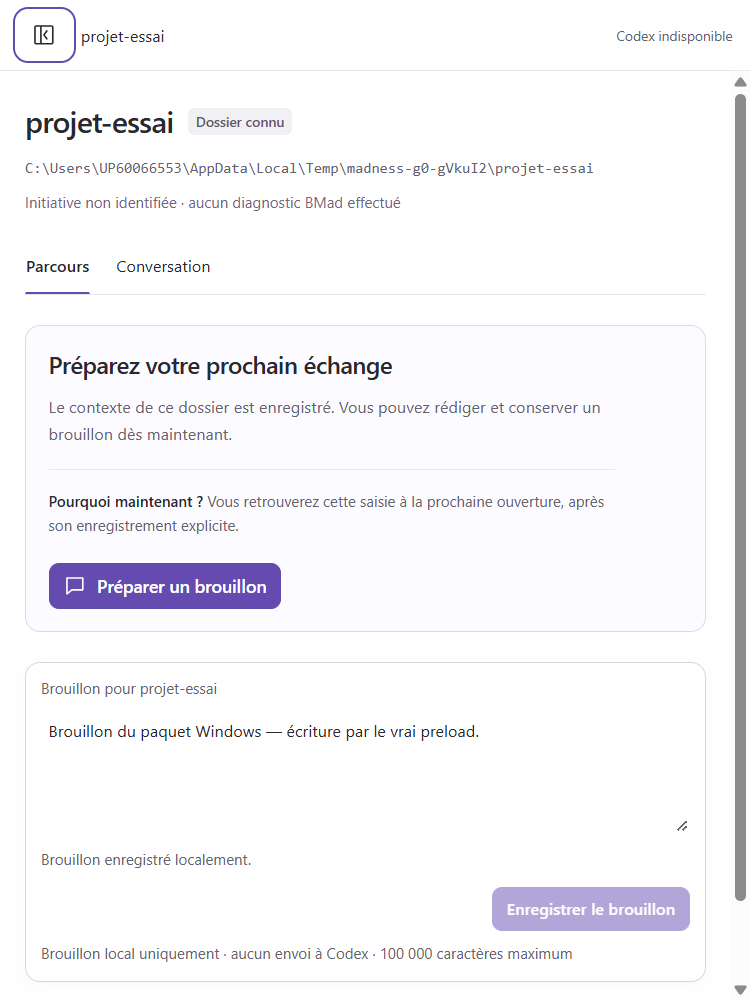
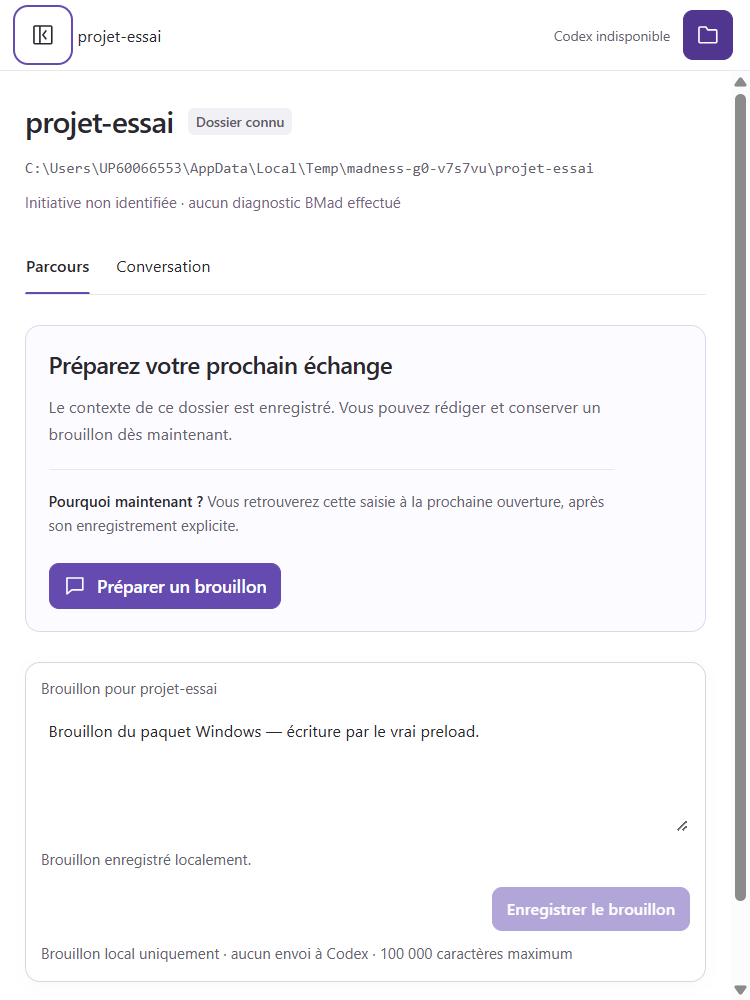
fix: regrouper la navigation et l'ouverture dans la barre superieure

Changed region(s): [[0.736, 0.0, 0.9813, 0.062], [0.0307, 0.0, 0.2147, 0.062], [0.5827, 0.155, 0.644, 0.186]]

diff --git a/src/renderer/src/App.tsx b/src/renderer/src/App.tsx
@@ -66,6 +66,7 @@ export function App(): ReactNode {
     void run(() => window.madness.selectProject(projectId), () => { setPage('project'); setNotice('Projet retrouvé. Aucun agent n’a été relancé.'); setTimeout(() => heading.current?.focus(), 0) })
   }
   function toggleNavigation(): void {
+    if (pending || !state) return
     const next = !collapsed
     setCollapsed(next)
     setPreferenceUnsaved(true)
@@ -73,30 +74,36 @@ export function App(): ReactNode {
   }
   const navigation = <>
     <button className={'nav-button ' + (page === 'home' ? 'selected' : '')} aria-label={fr.home} aria-current={page === 'home' ? 'page' : undefined} title={fr.home} onClick={home}><Icon name="home" /><span className="nav-label">{fr.home}</span></button>
-    <button className="nav-button" aria-label={fr.open} title={fr.open} onClick={open} disabled={pending || !state}><Icon name="folder" /><span className="nav-label">{fr.open}</span></button>
     <h2 className="nav-section nav-label">{fr.recent}</h2>
     {state?.projects.map((p, index) => <button key={p.id} className={'nav-button project-link ' + (page === 'project' && p.id === project?.id ? 'selected' : '')} aria-label={'Ouvrir le projet ' + p.name} aria-current={page === 'project' && p.id === project?.id ? 'page' : undefined} title={p.name + '\n' + p.rootPath} disabled={pending} onClick={() => select(p.id)}><span className="project-glyph" aria-hidden="true">{(index + 1).toString(36).toUpperCase()}</span><span className="nav-label truncate">{p.name}</span></button>)}
     {!state?.projects.length && <p className="nav-note nav-label">Vos dossiers ouverts apparaîtront ici.</p>}
   </>
   return <div className={'app-shell ' + (collapsed ? 'nav-compact ' : '') + (tooltipsDismissed ? 'tooltips-dismissed' : '')} onKeyDown={(event) => { if (event.key === 'Escape') setTooltipsDismissed(true) }}>
     <a className="skip-link" href="#main" onClick={(event) => { event.preventDefault(); document.getElementById('main')?.focus() }}>Aller au contenu</a>
+    <header className="topbar">
+      <div className="breadcrumb">
+        <button className="toolbar-toggle desktop-menu" type="button" aria-label={collapsed ? 'Déployer la navigation' : 'Réduire la navigation'} title={collapsed ? 'Déployer la navigation' : 'Réduire la navigation'} aria-expanded={!collapsed} aria-controls="project-navigation" onClick={toggleNavigation} aria-disabled={pending || !state}><Icon name="panel" /></button>
+        <button className="toolbar-toggle mobile-menu" type="button" ref={drawerTrigger} aria-label="Ouvrir la navigation" title="Ouvrir la navigation" aria-haspopup="dialog" aria-controls="navigation-drawer" onClick={() => drawer.current?.showModal()}><Icon name="panel" /></button>
+        <span title={page === 'project' && project ? project.name : fr.home}>{page === 'project' && project ? project.name : fr.home}</span>
+      </div>
+      <div className="topbar-actions">
+        <span className="connection" title={fr.codexReason}>{fr.codexUnavailable}</span>
+        <button className="primary open-project" type="button" aria-label={fr.open} title={fr.open} onClick={open} disabled={pending || !state}><Icon name="folder" /><span className="open-label">{fr.open}</span></button>
+      </div>
+    </header>
+    <div className="app-body">
     <aside className="sidebar" aria-label="Navigation principale" onMouseLeave={() => setTooltipsDismissed(false)} onFocusCapture={() => setTooltipsDismissed(false)}>
       <div className="brand"><span className="brand-label">{fr.app}</span></div>
-      <button className="nav-button" aria-label={collapsed ? 'Déployer la navigation' : 'Réduire la navigation'} title={collapsed ? 'Déployer la navigation' : 'Réduire la navigation'} aria-expanded={!collapsed} onClick={toggleNavigation} disabled={pending || !state}><Icon name="panel" /><span className="nav-label">Réduire le menu</span></button>
-      <nav aria-label="Projets">{navigation}</nav>
+      <nav id="project-navigation" aria-label="Projets">{navigation}</nav>
       <p className="sidebar-bottom nav-label">Données locales<br />Français · thème clair</p>
     </aside>
     <div className="workspace">
-      <header className="topbar">
-        <div className="breadcrumb"><button className="mobile-menu" ref={drawerTrigger} aria-label="Ouvrir la navigation" onClick={() => drawer.current?.showModal()}><Icon name="panel" /></button><span>{page === 'project' && project ? project.name : fr.home}</span></div>
-        <span className="connection" title={fr.codexReason}>{fr.codexUnavailable}</span>
-      </header>
       <div className="workspace-body">
         <main id="main" tabIndex={-1}>
           <div className="main-inner">
             {error && <div className="error-message" role="alert"><strong>L’opération n’a pas abouti</strong><p>{error}</p>{!state && <button className="secondary" onClick={() => void load()} disabled={pending}>Relire le contexte local</button>}</div>}
             {!state ? <section className="empty-state"><h1 ref={heading} tabIndex={-1}>Retrouver votre espace de travail</h1><p>{pending ? 'Lecture du contexte local…' : 'Le contexte local est indisponible. Utilisez le message ci-dessus pour réessayer.'}</p></section> : page === 'home' || !project ? <>
-              <div className="page-intro"><div><h1 ref={heading} tabIndex={-1}>Vos projets, au même endroit</h1><p>Retrouvez un dossier et préparez la suite de votre travail.</p></div><button className="primary" onClick={open} disabled={pending}><Icon name="folder" />{fr.open}</button></div>
+              <div className="page-intro"><div><h1 ref={heading} tabIndex={-1}>Vos projets, au même endroit</h1><p>Retrouvez un dossier et préparez la suite de votre travail.</p></div></div>
               {state.projects.length === 0 ? <section className="welcome"><h2>Commencez par un dossier</h2><p>Ouvrez un projet local pour conserver son contexte et y préparer un brouillon. Le dossier reste intact.</p><p className="reason"><strong>Pourquoi maintenant ?</strong> Madness doit connaître le projet auquel rattacher votre saisie.</p></section> : <section aria-labelledby="recent-heading"><h2 id="recent-heading">{fr.recent}</h2><div className="project-list">{state.projects.map((p, index) => <button className="project-row" key={p.id} onClick={() => select(p.id)} disabled={pending}><span className="project-avatar" aria-hidden="true">{(index + 1).toString(36).toUpperCase()}</span><span className="project-info"><strong>{p.name}</strong><code>{p.rootPath}</code><small>Contexte conservé localement</small></span><Icon name="arrow" /></button>)}</div></section>}
               <div className="home-note"><h2>La connexion viendra ensuite</h2><p>{fr.codexReason} L’analyse BMad, l’initialisation et le graphe ne sont pas disponibles dans ce socle.</p></div>
             </> : <>
@@ -121,7 +128,8 @@ export function App(): ReactNode {
         {page === 'project' && project && <aside className="context-panel" aria-label="Contexte du projet"><h2>Contexte du projet</h2><p>Source : dossier choisi via Windows.</p><dl><dt>Dossier canonique</dt><dd><code>{project.rootPath}</code></dd><dt>Conservation</dt><dd>Contexte et brouillon dans les données locales de Madness.</dd><dt>Activité</dt><dd>Aucun agent lancé.</dd><dt>Fichiers du projet</dt><dd>Aucune modification effectuée.</dd></dl><p className="small">Les preuves BMad et les échanges fournisseur seront disponibles après leurs qualifications respectives.</p></aside>}
       </div>
     </div>
-    <dialog className="navigation-drawer" ref={drawer} aria-labelledby="drawer-title" onClose={() => drawerTrigger.current?.focus()} onClick={(event) => { if (event.target === drawer.current) closeDrawer() }}>
+    </div>
+    <dialog id="navigation-drawer" className="navigation-drawer" ref={drawer} aria-labelledby="drawer-title" onClose={() => drawerTrigger.current?.focus()} onClick={(event) => { if (event.target === drawer.current) closeDrawer() }}>
       <div className="drawer-heading"><h2 id="drawer-title">{fr.app}</h2><button aria-label="Fermer la navigation" onClick={closeDrawer}><Icon name="close" /></button></div><nav aria-label="Projets en fenêtre compacte">{navigation}</nav>
     </dialog>
   </div>

diff --git a/src/renderer/src/styles.css b/src/renderer/src/styles.css
@@ -15,7 +15,7 @@ button, textarea { font: inherit; color: inherit }
 button { cursor: pointer; display: inline-flex; align-items: center; justify-content: center; gap: 8px; border: 1px solid transparent; border-radius: 8px; padding: 8px 11px; background: transparent; line-height: 1.35 }
 button:hover { background: var(--hover) }
 button:active { background: var(--active) }
-button:disabled { cursor: not-allowed; opacity: .5 }
+button:disabled, button[aria-disabled="true"] { cursor: not-allowed; opacity: .5 }
 button:focus-visible, a:focus-visible, textarea:focus-visible, [tabindex]:focus-visible { outline: 2px solid var(--accent); outline-offset: 3px }
 svg { width: 19px; height: 19px; flex: none; fill: none; stroke: currentColor; stroke-width: 1.65; stroke-linecap: round; stroke-linejoin: round }
 ::selection { color: var(--text); background: #ded4f3 }
@@ -33,7 +33,8 @@ code { font: 12px/1.65 Consolas, "Cascadia Code", monospace; overflow-wrap: anyw
 .secondary { background: var(--surface); border-color: var(--control-line) }
 .skip-link { position: fixed; top: -80px; left: 12px; z-index: 100; background: var(--surface); color: var(--accent); padding: 12px; text-underline-offset: 3px }
 .skip-link:focus { top: 12px }
-.app-shell { display: flex; height: 100dvh; min-height: 400px }
+.app-shell { display: flex; flex-direction: column; height: 100dvh; min-height: 400px }
+.app-body { display: flex; flex: 1; min-height: 0 }
 .sidebar { width: var(--sidebar); flex: none; background: var(--navigation); border-right: 1px solid var(--line); padding: 18px 12px 12px; display: flex; flex-direction: column; overflow-y: auto }
 .brand { height: 40px; padding: 0 10px; margin-bottom: 16px; display: flex; align-items: center; font-size: 18px; font-weight: 650; letter-spacing: -.025em }
 nav { display: flex; flex-direction: column; gap: 4px }
@@ -45,9 +46,12 @@ nav { display: flex; flex-direction: column; gap: 4px }
 .project-glyph { width: 20px; height: 20px; border: 1px solid var(--control-line); border-radius: 5px; display: inline-grid; place-items: center; flex: none; font-size: 11px }
 .truncate { overflow: hidden; text-overflow: ellipsis; white-space: nowrap }
 .workspace { flex: 1; min-width: 0; display: flex; flex-direction: column; background: var(--surface) }
-.topbar { min-height: 65px; flex: none; padding: 12px 25px; border-bottom: 1px solid var(--line); display: flex; align-items: center; justify-content: space-between; gap: 12px }
+.topbar { min-height: 56px; flex: none; padding: 8px 18px; border-bottom: 1px solid var(--line); background: var(--surface); display: flex; align-items: center; justify-content: space-between; gap: 12px }
+.topbar-actions { display: flex; align-items: center; gap: 16px; flex: none }
+.toolbar-toggle, .open-project { min-height: 40px }
+.toolbar-toggle { width: 40px; padding: 0; flex: none }
 .breadcrumb { display: flex; align-items: center; gap: 8px; min-width: 0; font-size: 13px }
-.breadcrumb span { overflow-wrap: anywhere }
+.breadcrumb span { overflow: hidden; text-overflow: ellipsis; white-space: nowrap }
 .connection { color: var(--muted); font-size: 12px; flex: none }
 .workspace-body { display: flex; min-height: 0; flex: 1 }
 main { overflow-y: auto; min-width: 0; flex: 1 }
@@ -115,5 +119,5 @@ dd { margin: 6px 0 0; color: var(--muted) }
 @media (min-width: 1600px) { :root { --sidebar: 240px; --context-panel: 350px } .main-inner { padding-left: 52px; padding-right: 52px } }
 @media (max-width: 1280px) { :root { --sidebar: 194px; --context-panel: 278px } .main-inner { padding: 30px 26px 40px } .topbar { padding-inline: 22px } .project-heading h1 { font-size: 24px } }
 @media (max-width: 1080px) { :root { --sidebar: 184px } .context-panel { display: none } .page-intro { flex-direction: column; gap: 18px } }
-@media (max-width: 720px) { .sidebar { display: none } .mobile-menu { display: inline-flex } .topbar { min-height: 57px; padding: 8px 14px } .connection { font-size: 11px } .main-inner { padding: 25px 20px 40px } h1 { font-size: 24px } .welcome, .recommendation { padding: 18px } .project-tabs { gap: 20px } .composer-bottom { align-items: flex-start; flex-direction: column } .composer-bottom button { align-self: flex-end } }
+@media (max-width: 720px) { .sidebar, .desktop-menu, .open-label { display: none } .mobile-menu { display: inline-flex } .topbar { min-height: 57px; padding: 8px 14px } .topbar-actions { gap: 10px } .open-project { width: 40px; padding: 0 } .connection { font-size: 11px } .main-inner { padding: 25px 20px 40px } h1 { font-size: 24px } .welcome, .recommendation { padding: 18px } .project-tabs { gap: 20px } .composer-bottom { align-items: flex-start; flex-direction: column } .composer-bottom button { align-self: flex-end } }
 @media (prefers-reduced-motion: reduce) { *, *::before, *::after { animation: none !important; transition: none !important; scroll-behavior: auto !important } }

diff --git a/_bmad-output/initiative-madness/tickets/epic-boucle-codex/qualification-g0/qualification-g0.md b/_bmad-output/initiative-madness/tickets/epic-boucle-codex/qualification-g0/qualification-g0.md
@@ -1,6 +1,6 @@
 ---
 title: 'Qualification locale du socle Windows G0'
-date: '2026-10-23'
+date: '2026-10-24'
 status: 'preuves-techniques-locales-obtenues'
 scope: 'story 1.2 — socle, contrats et stockage local'
 ---
@@ -9,7 +9,7 @@ scope: 'story 1.2 — socle, contrats et stockage local'
 
 Le socle React fonctionne dans Electron compilé puis dans l’exécutable Windows empaqueté. Les opérations de lecture, choix du dossier, sauvegarde du brouillon et préférence passent par le vrai preload métier. Après fermeture, le contexte, le brouillon et la préférence sont retrouvés ; aucun fournisseur n’est lancé. Le [profil expurgé](profile.json) distingue les contrôles acquis des limites.
 
-Ce rapport n’installe pas le programme sur une machine cible et ne qualifie pas Codex, BMad, les opérations d’initialisation ou Graphify. Aucun passage de gate ni déblocage d’un lot consommateur n’est effectué automatiquement. Les qualifications humaines, d’installation et de réseau manquantes restent explicites.
+Le banc de ce rapport n’installe pas le programme sur une machine cible et ne qualifie pas Codex, BMad, les opérations d’initialisation ou Graphify. Le porteur confirme toutefois le 24 octobre avoir installé puis ouvert la livraison précédente, avant le correctif UX décrit ci-dessous. Aucun passage de gate ni déblocage d’un lot consommateur n’est effectué automatiquement ; les preuves humaines et réseau restantes sont explicites.
 
 ## Assemblage observé
 
@@ -37,7 +37,7 @@ Les versions du plan ont été installées sans repli. Le starter conservait Ele
 | Matrice automatique | 42 tests réussis | 16 tests G0 et 26 tests du banc Codex indépendant, sans lancement fournisseur ; aucun test ignoré |
 | Build | Réussi | Trois sorties autonomes main/preload/renderer |
 | Renderer de développement | Réussi | URL locale normalisée et HMR autorisé par nonce CSP de session, sans `unsafe-inline` ; vrai preload et profil jetable |
-| Paquet Windows x64 | Réussi | `dist/win-unpacked/Madness.exe` et installateur NSIS local |
+| Paquet Windows x64 | Réussi | `dist/win-unpacked/Madness.exe` et installateur NSIS local ; installation et ouverture de la livraison précédente confirmées par le porteur le 24 octobre |
 | Programme compilé puis empaqueté | Réussi | Les deux affichent React et exposent le pont métier réel |
 | Annulation du sélecteur | Réussi | Aucun projet ajouté, aucun snapshot créé ; retour OS contrôlé par le banc |
 | Contexte réel | Réussi | Racine canonique lue sur un dossier d’essai ; aucun contenu du projet modifié |
@@ -49,7 +49,7 @@ Les versions du plan ont été installées sans repli. Le starter conservait Ele
 | Saisie après erreur | Réussi dans le paquet | Une version future injectée dans le seul profil témoin reste intacte ; la saisie reste visible |
 | Cycle de vie | Réussi au périmètre G0 | Aucune reprise automatique ; états restaurés historiques ; arrêt limité aux opérations possédées, résultat inconnu conservé |
 | Navigation | Réussi au périmètre contrôlé | Repli, accueil/projet et redimensionnement conservent la saisie ; Échap ferme le tiroir et restitue le focus ; lien d’évitement clavier sans changement d’URL ; repères distincts de deux projets de même initiale conservés après réouverture |
-| Contrôle Impeccable | 0 constat au passage initial | [Sortie du détecteur](detection-impeccable.json) sur `src/renderer`, exécuté une fois avant les corrections de revue ; celles-ci ont une confirmation visuelle distincte. Ne vaut pas audit d’accessibilité |
+| Contrôle Impeccable | 0 constat au passage du 24 octobre | [Sortie du détecteur](detection-impeccable.json) sur `src/renderer`, exécuté une fois pour le correctif de barre supérieure. Ne vaut pas audit d’accessibilité |
 | Nettoyage | Réussi | Enfants du banc fermés et seul espace temporaire créé supprimé ; profils personnels non utilisés |
 
 Les tests de persistance atomique ont d’abord rencontré `EPERM` dans le répertoire temporaire virtualisé du sandbox des outils. Ils ont été exécutés dans Windows local autorisé et ont réussi sans changer la stratégie de remplacement. Le banc a également corrigé deux détails de son lanceur Windows : barre finale d’un argument et consultation du processus après destruction de son objet d’automatisation. Ces défauts du banc n’ont pas été présentés comme une preuve de succès.
@@ -61,7 +61,11 @@ La base française claire et les tokens de DESIGN.md sont repris : navigation la
 - [Fenêtre desktop](packaged-desktop.png), contenu de 1 320 × 860 CSS px.
 - [Fenêtre compacte](packaged-compact.png), contenu de 600 × 800 CSS px, tiroir de navigation accessible au clavier.
 
-L’échelle Windows peut produire des dimensions d’image supérieures aux dimensions CSS. Après l’inspection initiale et sa confirmation, une capture corrective bornée a vérifié les repères distincts demandés par la revue. Les fichiers présents correspondent au paquet corrigé (`captureMode: captured-this-run`) ; les chemins visibles sont ceux du dossier témoin jetable, jamais un projet métier.
+L’échelle Windows peut produire des dimensions d’image supérieures aux dimensions CSS. Les fichiers présents correspondent au paquet reconstruit le 24 octobre après le retour utilisateur sur la barre supérieure (`captureMode: captured-this-run`), inspecté en une passe desktop/compacte. Les chemins visibles sont ceux du dossier témoin jetable, jamais un projet métier.
+
+### Retour utilisateur du 24 octobre
+
+La bascule de navigation rejoint la barre d’action commune au-dessus des colonnes ; une seule commande « Ouvrir un projet » y reste disponible. Le banc vérifie placement, unicité depuis accueil/projet/rail et fenêtre étroite, repli au clavier sans perte de saisie ni de focus et préférence après réouverture. La désactivation native de la bascule pendant sauvegarde avait fait perdre le focus : le refus temporaire est désormais exposé par `aria-disabled`, sans retirer le focus. Les 42 tests, types, compilation et packaging passent ; le banc complet rapporte maintenant 15 contrôles réussis et nettoyage confirmé. Ces preuves actualisent le profil, sans transformer les captures utilisateur en validation d’installation ou de proxy.
 
 ## Revue et décision
 
@@ -90,7 +94,7 @@ Pour rejouer les vérifications techniques en conservant les captures déjà ins
 ## Limites et travail restant
 
 - Le sélecteur Windows est réellement appelé par l’adaptateur, mais son résultat est contrôlé par le banc ; aucun parcours humain de ce dialogue n’est revendiqué.
-- L’installateur NSIS est construit, non exécuté. Installation, désinstallation et préservation après remplacement par l’installateur restent à vérifier sur la cible. Aucun minimum Windows ou proxy n’est déduit d’un essai sur cette machine.
+- Le porteur confirme avoir exécuté l’installateur livré précédemment et ouvert l’application installée le 24 octobre. L’installation du nouveau correctif, la désinstallation et la préservation après remplacement par l’installateur ne sont pas encore vérifiées. Le banc conserve la limite de son propre périmètre (construction, sans installation) ; aucun minimum Windows ou contrôle du proxy n’est déduit de ce retour.
 - L’exécutable et l’installateur ne sont pas signés. L’icône du runtime est conservée en attendant une ressource de marque approuvée ; aucune publication distante n’a été effectuée.
 - Aucun réseau de fournisseur, login, identifiant Codex ou conversation réelle n’a été utilisé. G1 reste distinct ; G2/G3, les trois parcours humains G4 et G5 ne sont pas qualifiés ici.
 - Aucun audit WCAG, lecteur d’écran ou essai novice n’a été réalisé. A1 reste ouverte ; le français clair est la seule variante implémentée.

diff --git a/_bmad-output/initiative-madness/plan-corriger-barre-actions-navigation.md b/_bmad-output/initiative-madness/plan-corriger-barre-actions-navigation.md
@@ -1,0 +1,47 @@
+---
+title: 'Regrouper les commandes globales dans la barre supérieure'
+type: 'bugfix'
+ticket: ''
+created: '2026-10-24'
+status: 'built'
+baseline_revision: '456d4d19de0ddb9926cd602a4f115ddc9f3dcd0e'
+route: 'oneshot'
+route_source: 'auto'
+risk: 'low'
+review: 'quick'
+review_source: 'pinned'
+lenses_ran: ['quick']
+review_loop_iteration: 0
+context: ['{project-root}/_bmad-output/initiative-madness/ux-madness/DESIGN.md', '{project-root}/_bmad-output/initiative-madness/ux-madness/EXPERIENCE.md']
+---
+
+<frozen-after-approval reason="human-owned intent — do not modify unless human renegotiates">
+
+## Intent
+
+**Problème :** le retour utilisateur du 24 octobre demande une bascule de navigation dans la barre d’action supérieure, comme ChatGPT Desktop, et signale deux commandes « Ouvrir un projet » concurrentes.
+
+**Approche :** regrouper les commandes globales dans une barre commune à toute la largeur, sous le cadre Windows natif : navigation à gauche et une seule ouverture de projet, accessible depuis accueil, projet, rail et fenêtre étroite. La colonne gauche garde ses destinations et projets récents. Conserver le contexte, la saisie, la préférence persistante, le clavier/focus et le tiroir étroit. Mettre à jour les règles UX et le journal avec ce retour explicite ; les anciennes captures restent historiques. Aucun changement de fournisseur, gate, stockage, cadre Windows ou variantes de thème/langue ; une capture d’ouverture ne prouve pas l’installation ni le proxy.
+
+</frozen-after-approval>
+
+## Implementation Notes
+
+- Correction locale estimée à moins de 100 lignes de produit et de contrôles, sans nouvelle API : route oneshot. Mandat autonome conservé ; modifications dans le dépôt actuel autorisées, fichiers non suivis préexistants préservés. Aucun processus utilisateur à arrêter.
+- Cibles : App.tsx (placer header au-dessus des colonnes et supprimer les doublons), styles.css (barre/colonnes et boutons selon largeur), windows.mjs (unicité, placement, focus, saisie), DESIGN/EXPERIENCE et journal UX (amendement demandé). Palette et identité reprises du système existant ; contexte Impeccable déjà chargé, aucune nouvelle direction.
+- Le contrôle a d’abord échoué sur l’ancien build : aucune barre commune au-dessus des colonnes. Après déplacement, contrôle vert. Le test clavier avec saisie non enregistrée a ensuite reproduit une perte de focus causée par la désactivation native pendant sauvegarde ; la bascule expose maintenant aria-disabled et refuse l’action pendant l’attente, sans retirer le focus. Contrôle ciblé vert après compilation. Les types et 42 tests sont réussis ; le packaging réutilise ces sorties vérifiées.
+- Paquet complet reconstruit ; 15 contrôles Windows réussis, nettoyage confirmé. Détecteur Impeccable exécuté une fois : aucun constat. Inspection groupée des deux captures corrigées : barre commune, ouverture unique, adaptation compacte et surfaces acceptées conservées. Aucun gate ni statut de ticket modifié.
+- Précision utilisateur reçue pendant la revue le 24 octobre : il a utilisé l’installateur livré précédemment puis lancé l’application installée. Installation et ouverture de cette livraison sont donc confirmées par le porteur ; le nouveau paquet corrigé n’a pas encore ce retour humain. Cette information complète la preuve, sans attester proxy, remplacement, désinstallation ou dialogue fournisseur.
+
+## Plan Change Log
+
+## Review Triage Log
+
+- Revue Quick indépendante terminée : aucun constat, rien à corriger ou différer. Le diff et le code environnant ont été inspectés ; les vérifications exécutables et les captures sont consignées ci-dessus.
+
+## Verification
+
+- `npm test` et `npm run build:win` : tests/types/compilation/paquet réussis ; ne pas arrêter une application utilisateur pour libérer les binaires.
+- `node scripts/qualification/windows.mjs` : bouton de navigation dans le header, une seule ouverture visible sur accueil/projet/rail et en petite fenêtre ; commandes fonctionnelles, focus et saisie conservés, réouverture inchangée. Profils isolés, nettoyage confirmé.
+- Une inspection batched desktop/compact, puis une confirmation au maximum si correction requise. Détecteur Impeccable une fois pour cette correction, sans cycle de polish.
+- Diff relu et revue BMad Quick ; `git diff --check`, commit local exact. G0/1.1/1.2 gardent leurs limites réelles.

diff --git a/_bmad-output/initiative-madness/ux-madness/EXPERIENCE.md b/_bmad-output/initiative-madness/ux-madness/EXPERIENCE.md
@@ -2,7 +2,7 @@
 title: "Madness — expérience utilisateur"
 status: final
 created: 2026-10-22
-updated: 2026-10-23
+updated: 2026-10-24
 sources:
   - ../initiative-madness.md
   - .memlog.md
@@ -35,7 +35,7 @@ Les versions antérieures à v7 et leur migration sont hors V1. Le suivi en dire
 
 Les surfaces maquettées sont accessibles dans la [maquette commune](mockups/parcours-guide/index.html). Connexion, refus d'accès, incompatibilité v7 et reprise après redémarrage seront construits à partir de ces règles et des décisions techniques à venir ; aucun écran détaillé n'a encore été approuvé pour eux.
 
-Navigation globale : Accueil, Ouvrir un projet, projets récents, Possibilités BMad, Que faire ensuite ?. Le projet expose Parcours, Conversation et Toutes les possibilités ; les fichiers restent consultables à côté. Les regroupements Cadrage, Exigences, Expérience utilisateur, Architecture, Réalisation & qualité et Outils transversaux sont des repères, sans chaîne imposée ni étape à valider artificiellement pour accéder à la suivante.
+Navigation globale : Accueil, projets récents, Possibilités BMad, Que faire ensuite ?. La barre d’action supérieure porte une seule commande « Ouvrir un projet », disponible depuis l’accueil et le projet, et la bascule de navigation. Le projet expose Parcours, Conversation et Toutes les possibilités ; les fichiers restent consultables à côté. Les regroupements Cadrage, Exigences, Expérience utilisateur, Architecture, Réalisation & qualité et Outils transversaux sont des repères, sans chaîne imposée ni étape à valider artificiellement pour accéder à la suivante.
 
 Un projet peut contenir plusieurs initiatives. Son espace identifie l'initiative active, permet de retrouver les autres initiatives repérées et indique celle que concernent l'état, les preuves et l'action envisagée. Les fichiers transversaux restent rattachés au projet. Changer d'initiative ne réattribue pas les conversations et résultats antérieurs. La commande précise de changement reste à définir dans les exigences ; aucun sélecteur détaillé n'est considéré comme maquetté ou approuvé.
 
@@ -59,7 +59,7 @@ Les noms ci-dessous correspondent exactement à DESIGN.md · Components.
 
 | Composant | Règles de comportement |
 |---|---|
-| Navigation latérale | Réduire/déployer conserve projet, onglet, conversation et saisie. Au-dessus de `{components.navigation.drawerBreakpoint}`, le rail mesure `{components.navigation.compactWidth}` ; chaque destination conserve un nom accessible et une infobulle au survol/focus. Bascule explicite avec état développé annoncé ; focus conservé sur la bascule. Seule cette préférence est mémorisée dans la maquette ; elle ne prouve aucune persistance des conversations. |
+| Navigation latérale | Réduire/déployer conserve projet, onglet, conversation et saisie. Au-dessus de `{components.navigation.drawerBreakpoint}`, le rail mesure `{components.navigation.compactWidth}` ; chaque destination conserve un nom accessible et une infobulle au survol/focus. Bascule explicite dans la barre supérieure, avec état développé annoncé et focus conservé pendant la sauvegarde de la préférence. En fenêtre étroite, la commande ouvre le tiroir ; sa fermeture rend le focus à ce déclencheur. Seule cette préférence est mémorisée dans la maquette ; elle ne prouve aucune persistance des conversations. |
 | Bouton | Libellé orienté action ; une action indisponible explique le prérequis. Pas de double lancement pendant une requête. Une approbation ne porte que sur le changement décrit. |
 | Ligne de projet ou d'attente | Ouvre le projet ou le point d'attente concerné. La raison reste nommée : question, livrable à relire, interruption ou erreur. Ne pas réduire l'information à un compteur. |
 | Onglets du projet | Changer de vue ne répond pas à l'agent et n'efface pas la saisie. L'attente reste signalée lorsqu'on quitte Conversation. |

diff --git a/_bmad-output/initiative-madness/ux-madness/DESIGN.md b/_bmad-output/initiative-madness/ux-madness/DESIGN.md
@@ -3,7 +3,7 @@ name: Madness
 description: "Parcours guidé pour comprendre et piloter BMad sur des projets locaux."
 status: final
 created: 2026-10-22
-updated: 2026-10-23
+updated: 2026-10-24
 sources:
   - ../initiative-madness.md
   - .memlog.md
@@ -191,9 +191,11 @@ Les textes fonctionnels ne descendent pas sous `{typography.label.fontSize}`. Ne
 
 ## Layout & Spacing
 
-Trois régions : Navigation latérale, contenu flexible, Panneau de fichiers. Le centre utilise `{spacing.content-max}`, l'accueil `{spacing.home-max}`, avec `{spacing.page-x}` sur les côtés et `{spacing.page-top}` en haut à la largeur de référence. L'échelle 4 / 8 / 12 / 16 / 20 / 24 px distingue relations proches et sections. Les régions défilent séparément sans masquer l'en-tête et ses commandes.
+Sous une barre d’action commune à toute la largeur : Navigation latérale, contenu flexible, Panneau de fichiers. Le centre utilise `{spacing.content-max}`, l'accueil `{spacing.home-max}`, avec `{spacing.page-x}` sur les côtés et `{spacing.page-top}` en haut à la largeur de référence. L'échelle 4 / 8 / 12 / 16 / 20 / 24 px distingue relations proches et sections. Les régions défilent séparément sans masquer l'en-tête et ses commandes.
 
 L'en-tête identifie le projet et l'initiative active lorsqu'elle est connue. Ces deux niveaux restent lisibles lorsque la navigation est repliée ; les fichiers et l'action proposée gardent le même contexte. La forme de présentation des autres initiatives reste à préciser dans les exigences, sans imposer de nouvel écran.
+
+Amendement du 24 octobre 2026, demandé après prise en main de l’application : la barre supérieure porte la bascule de navigation à gauche et une seule commande « Ouvrir un projet », accessible depuis l’accueil et le projet. Ces commandes ne sont pas répétées dans la colonne gauche ni dans le contenu d’accueil. En fenêtre étroite, la bascule ouvre le tiroir ; l’ouverture de projet garde son nom accessible lorsque seul son SVG est visible. Le cadre Windows natif est conservé. Les anciennes captures du prototype restent historiques ; cette règle prévaut pour l’application.
 
 La [feuille de style de la maquette](mockups/parcours-guide/styles.css) conserve la composition observée et ses adaptations de fenêtre.
 
@@ -225,6 +227,7 @@ Les mêmes noms désignent les règles de comportement dans EXPERIENCE.md.
 
 | Composant | Spécification visuelle |
 |---|---|
+| Barre d’action supérieure | Surface blanche, filet inférieur, contexte et commandes globales ; hauteur minimale 56 px, 57 px en fenêtre étroite, cibles de navigation et d’ouverture d’au moins 40 px. |
 | Navigation latérale | Fond et dimensions du groupe `components.navigation` ; sélection lavande, graisse 600 ; rail à icônes, projets identifiables, infobulles sombres. |
 | Bouton | Principal violet/blanc, secondaire blanc avec `{colors.control-line}`, discret sans fond. Arrondi `{rounded.md}`, retrait `{components.button.padding}` ; survol, pression, focus visible ; indisponibilité observée par opacité 0,5 avec explication accessible. |
 | Ligne de projet ou d'attente | Liste plate, filets, libellé puis contexte et chemin ; repère de projet ou symbole d'attente, état à droite. La ligne entière exprime la même destination. |

diff --git a/_bmad-output/initiative-madness/ux-madness/.memlog.md b/_bmad-output/initiative-madness/ux-madness/.memlog.md
@@ -20,3 +20,7 @@ updated: 2026-10-22T21:45
 - (decision) Utilisateur choisit le controle de coherence UX seul. Revue initiale : un constat medium unique R1 sur le contexte d initiative. Corrige dans les deux contrats puis controle cible resolu ; verdicts initiaux conserves. Relectures structure et prose terminees, une clarification appliquee.
 - (assumption) Couverture visuelle presentee : accueil, parcours, catalogue, conversation et fichiers maquettes ; connexion Codex, acces refuse, incompatibilite v7, reprise et contexte d initiative decrits seulement. Preference optionnelle de maquettes supplementaires sans reponse explicite. Premiere base deja acceptee conservee sans ecran supplementaire ; aucune approbation utilisateur de cette preference presumee.
 - (event) spines finalized. DESIGN.md et EXPERIENCE.md status final le 23 octobre 2026 ; index, contexte et point de reprise actualises. Verification finale : 3 statuts final, 53 liens locaux existants, 8 categories repliees, cloture et points ouverts concordants entre rapports HTML et Markdown. Prototype simule, brief draft, A1/A2 et G1-G3 a instruire. Prochain relais recommande : Sofia distille les Requirements de l initiative avant Winston ; aucun workflow suivant lance.
+
+- (decision) 2026-10-24 — Retour utilisateur sur Madness reel, captures fournies : bascule de navigation demandee dans la barre d action superieure comme ChatGPT Desktop ; duplication Ouvrir un projet jugee inutile. L utilisateur indique ne pas pouvoir tester beaucoup plus avec le socle actuel. Aucune preuve d installation/proxy ou de dialogue BMad n est deduite de ces captures.
+- (change) 2026-10-24 — Amendement cible des contrats : barre globale au-dessus des colonnes, bascule a gauche, ouverture unique disponible sur accueil et projet ; tiroir et nom accessible maintenus en petite fenetre. Palette, cadre Windows natif et maquette historique preserves.
+- (event) 2026-10-24 — Precision utilisateur : Installateur, puis application installee. Installation et ouverture de la livraison precedente sont confirmees par le porteur ; cela ne valide ni le nouveau correctif, ni remplacement/desinstallation, proxy ou dialogue fournisseur.

diff --git a/_bmad-output/initiative-madness/ux-madness/ux-madness.md b/_bmad-output/initiative-madness/ux-madness/ux-madness.md
@@ -3,10 +3,12 @@ title: "Madness — conception des trois parcours"
 type: ux
 status: final
 created: 2026-10-22
-updated: 2026-10-23
+updated: 2026-10-24
 ---
 
 La première base UX est acceptée et le travail de Sally est clos le 23 octobre 2026. Les contrats de référence sont [DESIGN.md](DESIGN.md), pour l'apparence, et [EXPERIENCE.md](EXPERIENCE.md), pour les comportements, états et parcours.
+
+Amendement du 24 octobre 2026 après retour sur l’application réelle : bascule de navigation dans une barre supérieure commune et une seule commande « Ouvrir un projet ». Les contrats intègrent ce changement ciblé ; le prototype et ses captures conservent la conception historique. L’utilisateur indique que ses autres essais sont limités par l’absence de dialogue intégré ; aucune validation d’installation, de proxy ou de parcours BMad complet n’en est déduite.
 
 Les trois parcours couverts sont : ouvrir et retrouver un projet ; comprendre l'état et ses preuves ; lancer une action et poursuivre. Le [prototype « Parcours guidé »](mockups/parcours-guide/index.html) et sa navigation rétractable constituent la base acceptée. Ils restent simulés : aucun fournisseur connecté, accès réel aux dossiers ou choix de stack n'est validé.
 
